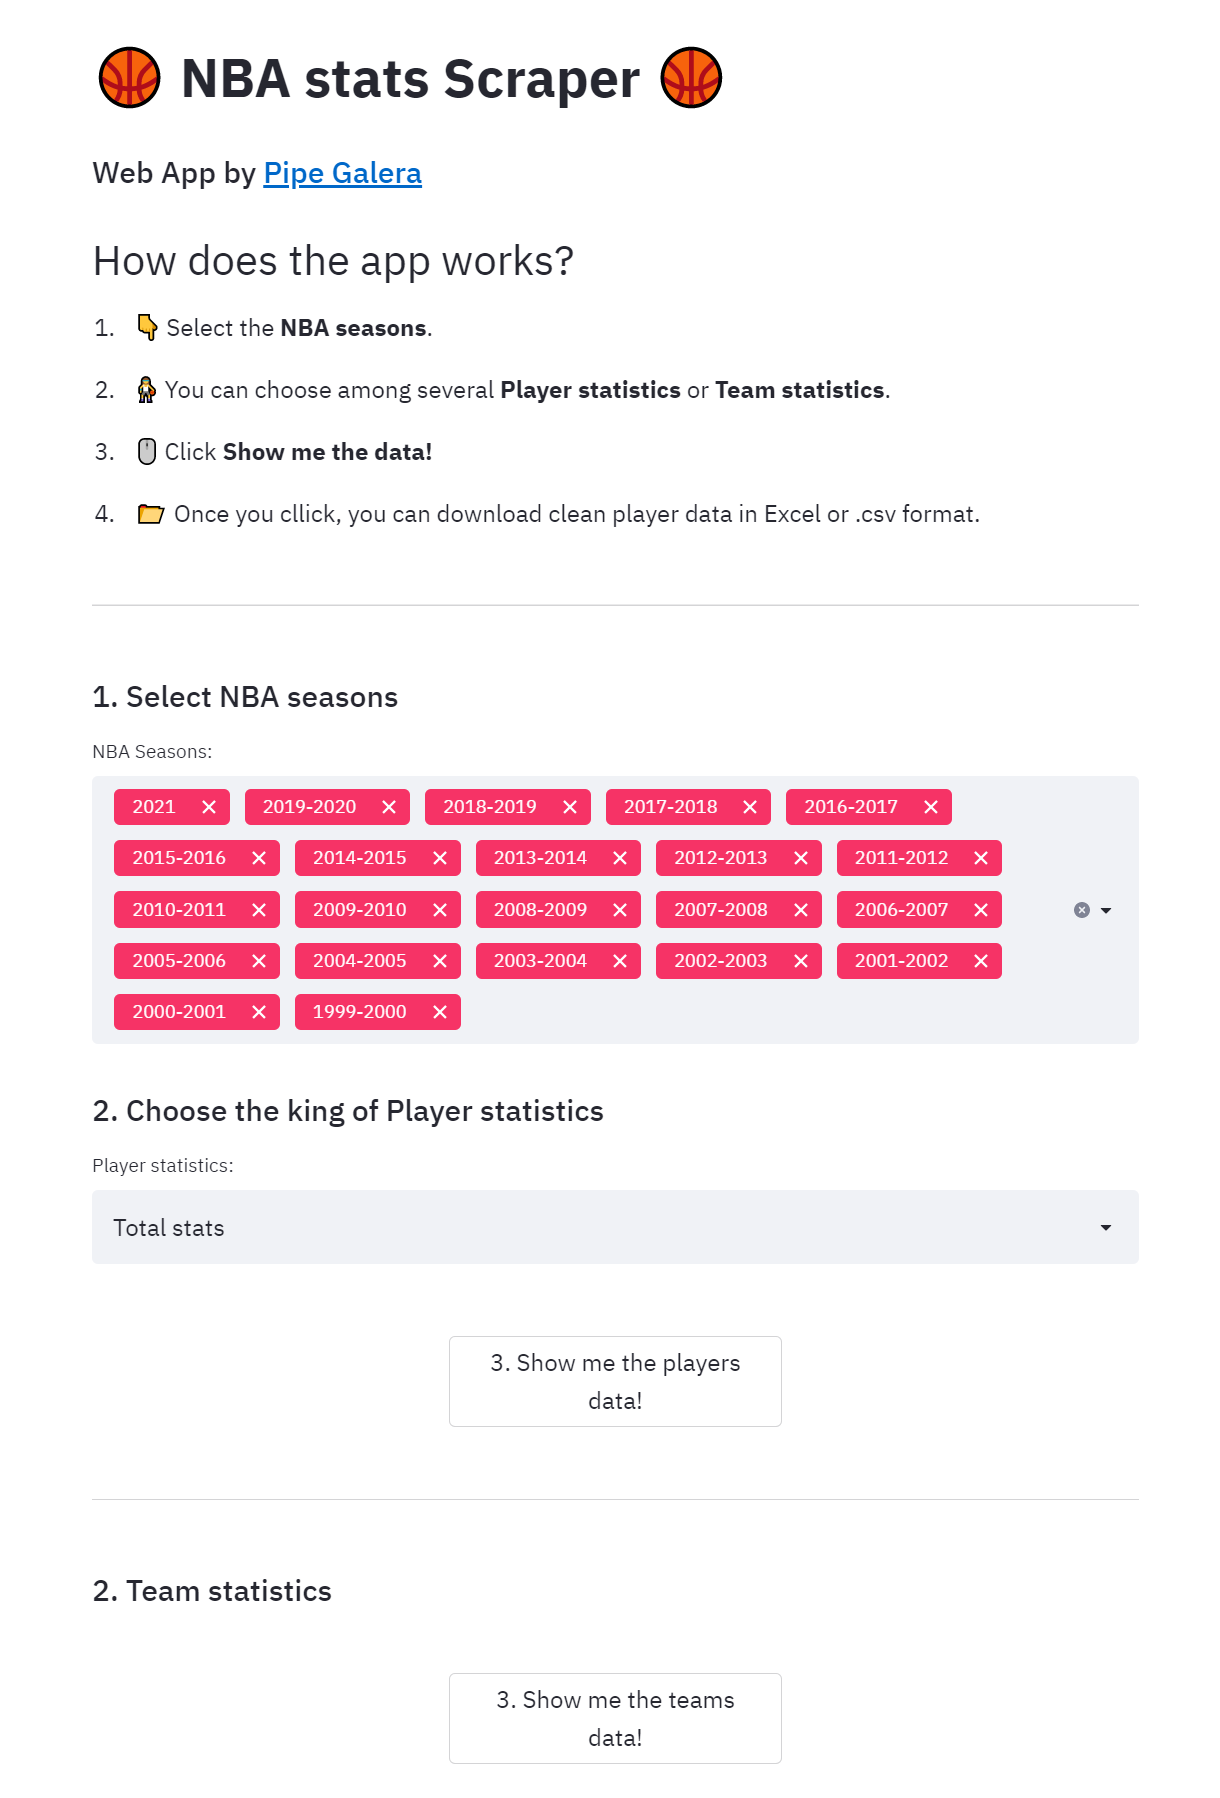
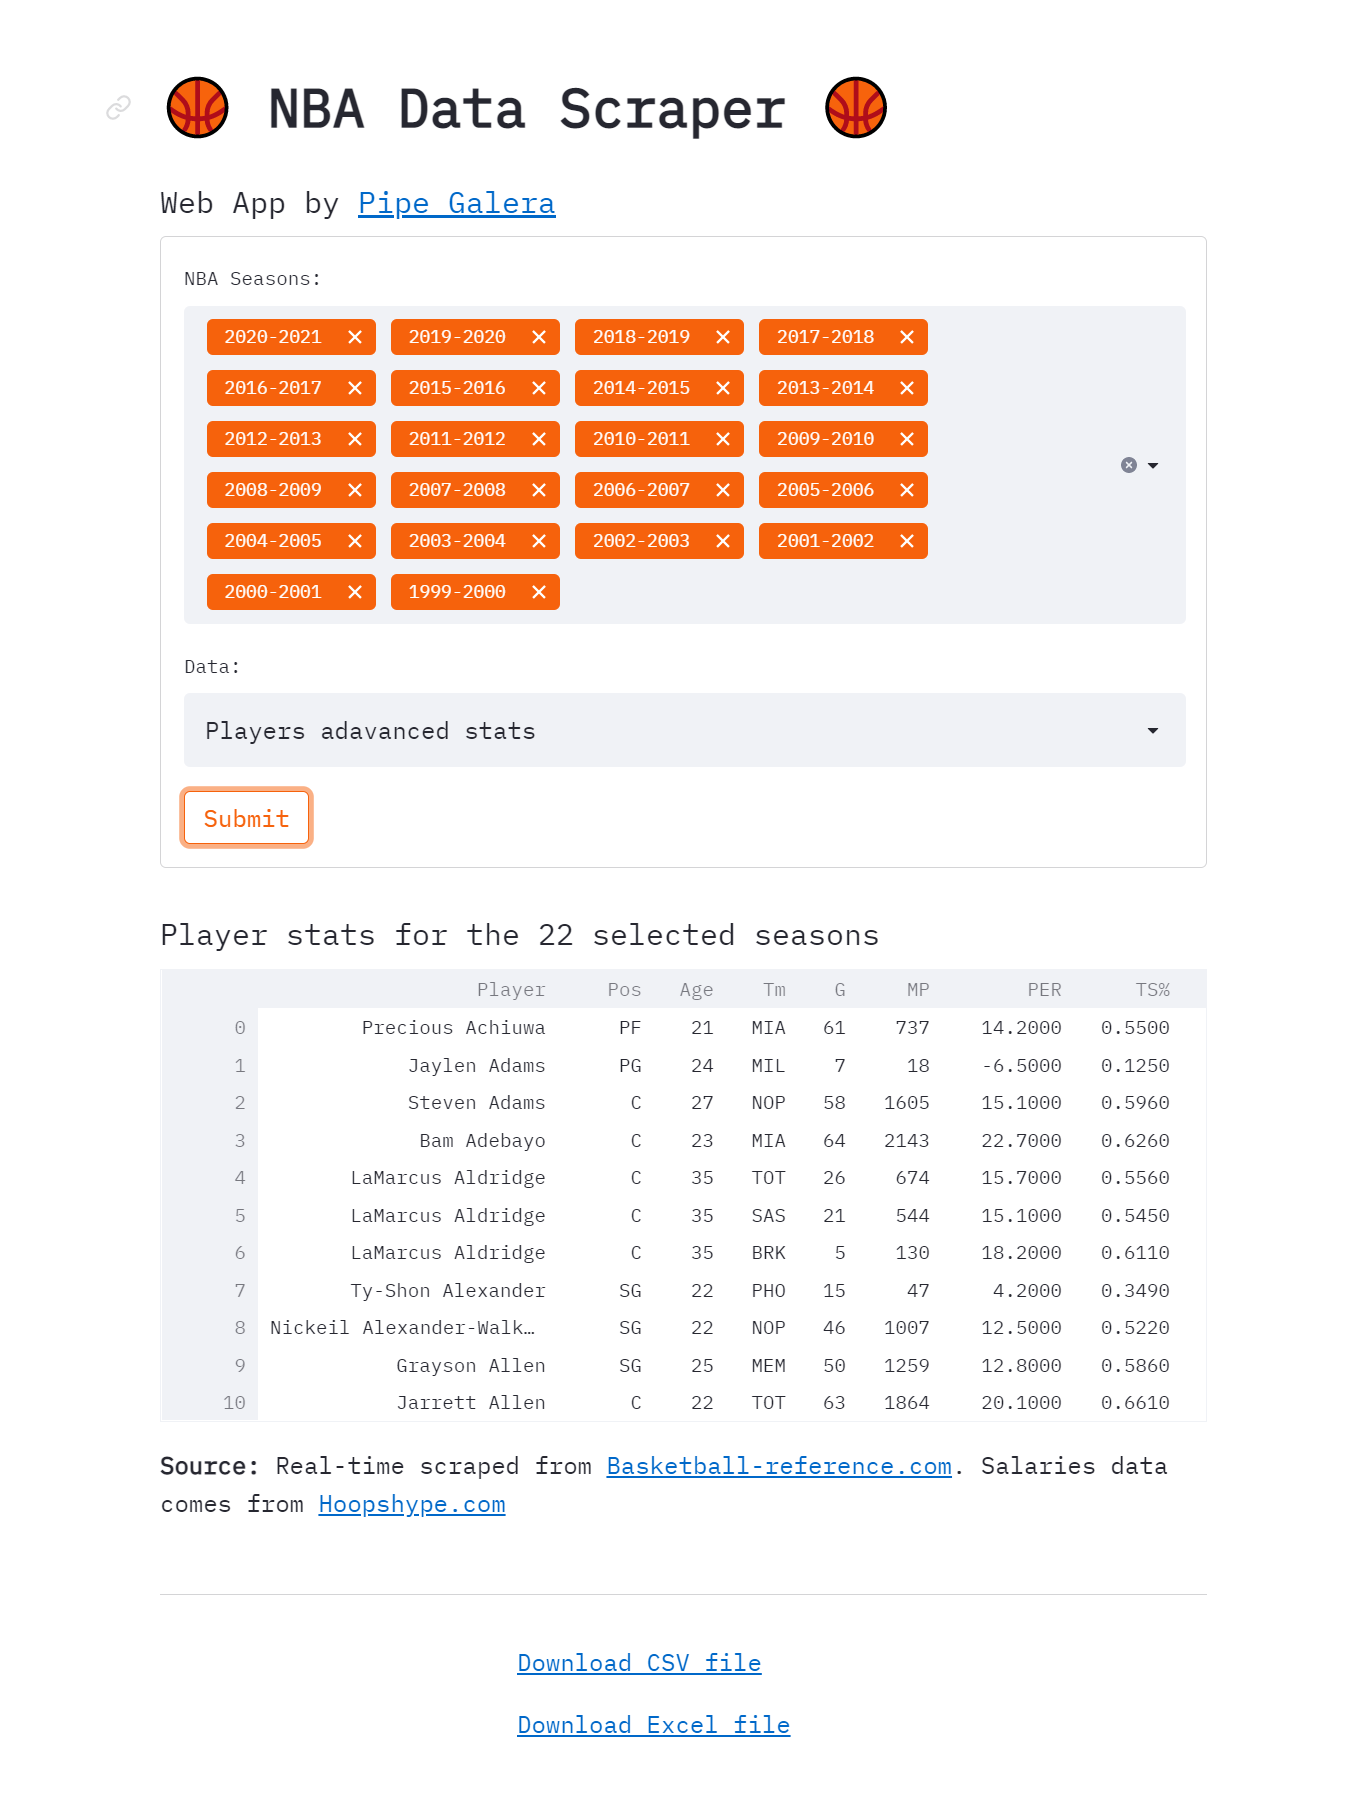
:sparkles: Redesign of the web app. Including more statistics.

diff --git a/functions_app.py b/functions_app.py
@@ -1,0 +1,210 @@
+import pandas as pd
+import base64
+from io import BytesIO
+
+def get_seasons_dict(from_season, to_season):
+        seasons = {}
+        list_years = list(reversed(range(from_season, to_season)))
+        for year in list_years:
+                key = str(year-1) + '-' + str(year)
+                seasons[key] = year
+
+        seasons_list = list(seasons.keys())
+
+        return seasons, seasons_list
+
+def loading_players_data(seasons_dict, stats_dict, selected_seasons, selected_stats_type):
+    # Store the key of the selected seasons
+    keys_seasons = []
+    for i in selected_seasons: 
+        keys_seasons.append(seasons_dict.get(i))
+
+    # Store the key of the selected statistic
+    key_stats_type = stats_dict.get(selected_stats_type)
+
+    # Get URLs for the selected seasons and statistics type
+    url_list = []
+    for season in keys_seasons:
+        url = "https://www.basketball-reference.com/leagues/NBA_{season}_{type}.html".format(season=season, type=key_stats_type)
+        url_list.append(url)
+
+
+    # Screape data
+    df = pd.DataFrame()
+    for url in url_list:
+        part_df = pd.read_html(url, header = 0)[0]
+
+        # Indicate year
+        season = [d for d in url if d.isdigit()]
+        season = ''.join(season)
+        part_df["Season"] = str(int(season)-1) + "/" + str(int(season))[2:]
+
+        # Append all the years
+        df = df.append(part_df, ignore_index = True)
+
+    # Drop duplicates and empty columns
+    df = df.drop(df[df['Age'] == 'Age'].index)
+    df = df.drop(columns = ['Rk'])
+    df = df.dropna(how = 'all', axis = 'columns')
+
+    # Fill nans and turn data into numeric
+    df = df.fillna(0)
+    df = df.apply(pd.to_numeric, errors = 'ignore')
+
+    return df
+
+
+def loading_teams_data(seasons_dict, selected_seasons):
+    # Store the key of the selected seasons
+    keys_seasons = []
+    for i in selected_seasons: 
+        keys_seasons.append(seasons_dict.get(i))
+
+    # Get URLs for the selected seasons and statistics type
+    url_list = []
+    for season in keys_seasons:
+        url = "https://www.basketball-reference.com/leagues/NBA_{}_ratings.html".format(season)
+        url_list.append(url)
+
+    # Screape data
+    df = pd.DataFrame()
+    for url in url_list:
+        part_df = pd.read_html(url, header = 1)[0]
+
+        # Indicate year
+        season = [d for d in url if d.isdigit()]
+        season = ''.join(season)
+        part_df["Season"] = str(int(season)-1) + "/" + str(int(season))[2:]
+
+        # Append all the years
+        df = df.append(part_df, ignore_index = True)
+
+        # Drop empty columns
+        df = df.drop(columns = ['Rk'])
+
+        # Fill nans (Only ORtg or DRtg from 1983 on)
+        df = df.fillna(0)
+        df = df.apply(pd.to_numeric, errors = 'ignore')
+
+    return df
+
+def nba_salaries(seasons_dict, selected_seasons):
+    # Store the key of the selected seasons
+    keys_seasons = []
+    for i in selected_seasons: 
+        keys_seasons.append(seasons_dict.get(i))
+
+    # List of URLs
+    list_urls = []
+    for season in selected_seasons:
+        if season == '2020-2021':
+            url = 'https://hoopshype.com/salaries/players/'
+            list_urls.append(url)
+        else:
+            url = 'https://hoopshype.com/salaries/players/{}'.format(season)
+            list_urls.append(url)
+
+    # Create a DataFrame that we will add the info in the url list by loop
+    df = pd.DataFrame()
+
+    # Salaries for 1990/1991 to 2019/2020 adjusted by inflation(*)
+    for url in list_urls:
+        if url == 'https://hoopshype.com/salaries/players/':
+            salary = pd.read_html(url, header = 0)[0].iloc[:,[1,2]]
+            # Add a column indicating the season of the salary
+            salary["Season"] = salary.columns[1]
+            # Rename the previous column name with just "Salary"
+            salary.rename(columns={salary.columns[1]: "Salary"}, inplace = True)
+            df = df.append(salary, ignore_index = True)
+        else:
+            salary = pd.read_html(url, header = 0)[0].iloc[:,1:4]
+            salary = (salary.set_index(["Player"])
+                            .stack()
+                            .reset_index()
+                            .rename(columns = {"level_1": "Season", 0: "Salary"}))
+            df = df.append(salary, ignore_index = True)
+
+    # Tidy the dataset
+    df = df.sort_values(by = ["Season", "Salary"], ascending = False)
+    df["Salary"] = df["Salary"].replace('[\$,]', '', regex=True).astype(int)
+    df["Season"] = df["Season"].replace('[(*)]', '', regex=True)
+
+    return df
+
+
+# To donwload the data
+def to_excel(df):
+    output = BytesIO()
+    writer = pd.ExcelWriter(output, engine='xlsxwriter')
+    df.to_excel(writer, sheet_name='Sheet1')
+    writer.save()
+    processed_data = output.getvalue()
+    return processed_data
+
+def link_excel(df):
+    """Generates a link allowing the data in a given panda dataframe to be downloaded
+    in:  dataframe
+    out: href string
+    """
+    val = to_excel(df)
+    b64 = base64.b64encode(val)
+
+    return f'<a href="data:application/octet-stream;base64,{b64.decode()}" download="data.xlsx">Download Excel file</a>'
+
+def link_csv(df):
+    """Generates a link allowing the data in a given panda dataframe to be downloaded
+    in:  dataframe
+    out: href string
+    """
+    csv = df.to_csv(index=False)
+    b64 = base64.b64encode(csv.encode()).decode()
+    return f'<a href="data:file/csv;base64,{b64}" download="data.csv">Download CSV file</a>'
+
+
+
+
+
+
+
+
+
+
+
+
+
+
+
+
+
+
+
+
+
+
+
+
+
+
+
+
+
+
+
+
+
+
+
+
+
+
+
+
+
+
+
+
+
+
+
+
+

diff --git a/streamlit_app.py b/streamlit_app.py
@@ -1,22 +1,13 @@
-# @Author: pipegalera
-# @Date:   2020-10-04T21:40:56+02:00
-# @Last modified by:   pipegalera
-# @Last modified time: 2020-10-20T12:42:39+02:00
-
-
-
 import streamlit as st
 import pandas as pd
-import numpy as np
-import base64
-from io import BytesIO
-import time
+from functions_app import *
 
-########################### Header ######################
-
-st.markdown(" # :basketball: NBA stats Scraper :basketball:")
+st.markdown(" # :basketball: NBA Data Scraper :basketball:")
 st.subheader('Web App by [Pipe Galera](https://www.pipegalera.com/)')
 
+<<<<<<< HEAD
+
+=======
 st.header('How does the app works?')
 st.markdown("""
              1. 👇 Select the **NBA seasons**.
@@ -87,73 +78,53 @@ def loading_players_data(selected_seasons, selected_type):
         season = [d for d in url if d.isdigit()]
         season = ''.join(season)
         part_df["Season"] = str(int(season)-1) + "/" + str(int(season))[2:]
+>>>>>>> c3f59916374434a0e517f8dfcb3b2e1fb4ea6111
 
-        # Append all the years
-        df = df.append(part_df, ignore_index = True)
+########################### Lists and Dictionaries ###########################
 
-    # Drop duplicates and empty columns
-    df = df.drop(df[df['Age'] == 'Age'].index)
-    df = df.drop(columns = ['Rk'])
-    df = df.dropna(how = 'all', axis = 'columns')
+seasons_dict, seasons_list =  get_seasons_dict(1950, 2022)
 
-    # Fill nans and turn data into numeric
-    df = df.fillna(0)
-    df = df.apply(pd.to_numeric, errors = 'ignore')
+stats_dict = {'Players total stats': 'totals',
+              'Players stats per game': 'per_game',
+              'Players stats per 36 minutes': 'per_minute',
+              'Players stats per 100 possesions': 'per_poss',
+              'Players adavanced stats': 'advanced',
+              'Players salary (only available from 1990 on)': 'salaries',
+              'Teams statistics': 'teams'}
 
-    return df
+########################### Data Scraper ###############################
 
-col1, col2, col3 = st.beta_columns(3)
-with col2:
-    st.markdown(' ')
-    st.markdown(' ')
-    button_players = st.button("3. Show me the players data!")
+with st.form('Form'):
+    selected_seasons = st.multiselect('NBA Seasons:', seasons_list, seasons_list[:22])
+    selected_stats_type = st.selectbox('Data:', list(stats_dict.keys()))                                  
+    submit = st.form_submit_button(label='Submit')
 
+if submit:
+    if selected_stats_type == 'Teams statistics': 
+        df = loading_teams_data(seasons_dict, selected_seasons)
+        df_header = 'Team stats for the ' + str(len(selected_seasons)) + ' selected seasons'
+    elif selected_stats_type == 'Players salary (only available from 1990 on)': 
+        df = nba_salaries(seasons_dict, selected_seasons)
+        df_header = 'Player stats for the ' + str(len(selected_seasons)) + ' selected seasons'
+    else:
+        df = loading_players_data(seasons_dict, stats_dict, selected_seasons, selected_stats_type)
+        df_header = 'Player stats for the ' + str(len(selected_seasons)) + ' selected seasons'
 
-# To donwload the data
-def to_excel(df):
-    output = BytesIO()
-    writer = pd.ExcelWriter(output, engine='xlsxwriter')
-    df.to_excel(writer, sheet_name='Sheet1')
-    writer.save()
-    processed_data = output.getvalue()
-    return processed_data
-
-def link_excel(df):
-    """Generates a link allowing the data in a given panda dataframe to be downloaded
-    in:  dataframe
-    out: href string
-    """
-    val = to_excel(df)
-    b64 = base64.b64encode(val)
-
-    return f'<a href="data:application/octet-stream;base64,{b64.decode()}" download="data.xlsx">Download Excel file</a>'
-
-def link_csv(df):
-    """Generates a link allowing the data in a given panda dataframe to be downloaded
-    in:  dataframe
-    out: href string
-    """
-    csv = df.to_csv(index=False)
-    b64 = base64.b64encode(csv.encode()).decode()
-    return f'<a href="data:file/csv;base64,{b64}" download="data.csv">Download CSV file</a>'
-
-if button_players:
-    df = loading_players_data(selected_seasons, selected_type)
-    df_header = 'Player stats for the ' + str(len(selected_seasons)) + ' selected seasons'
     st.subheader(df_header)
     st.write(df)
-    st.write('**Note**: a Player name followed by ***** indicates member of the Hall of Fame.')
-    st.markdown("**Source:** Real-time scraped from [Basketball-reference.com](https://www.basketball-reference.com/).")
+    st.markdown("**Source:** Real-time scraped from [Basketball-reference.com](https://www.basketball-reference.com/). Salaries data comes from [Hoopshype.com](https://hoopshype.com/salaries/)")
     st.markdown("---")
-    st.subheader('**4. Download the data** in the most convinient format for you: ')
 
-    links1, links2, links3 = st.beta_columns(3)
-    with links2:
+
+    column1, column2, column3 = st.beta_columns(3)
+    with column2:
         st.markdown(link_csv(df), unsafe_allow_html=True)
         st.markdown(link_excel(df), unsafe_allow_html=True)
 
 else:
     pass
+<<<<<<< HEAD
+=======
 
 st.markdown("---")
 
@@ -219,3 +190,4 @@ if button_teams:
 else:
     pass
 
+>>>>>>> c3f59916374434a0e517f8dfcb3b2e1fb4ea6111
